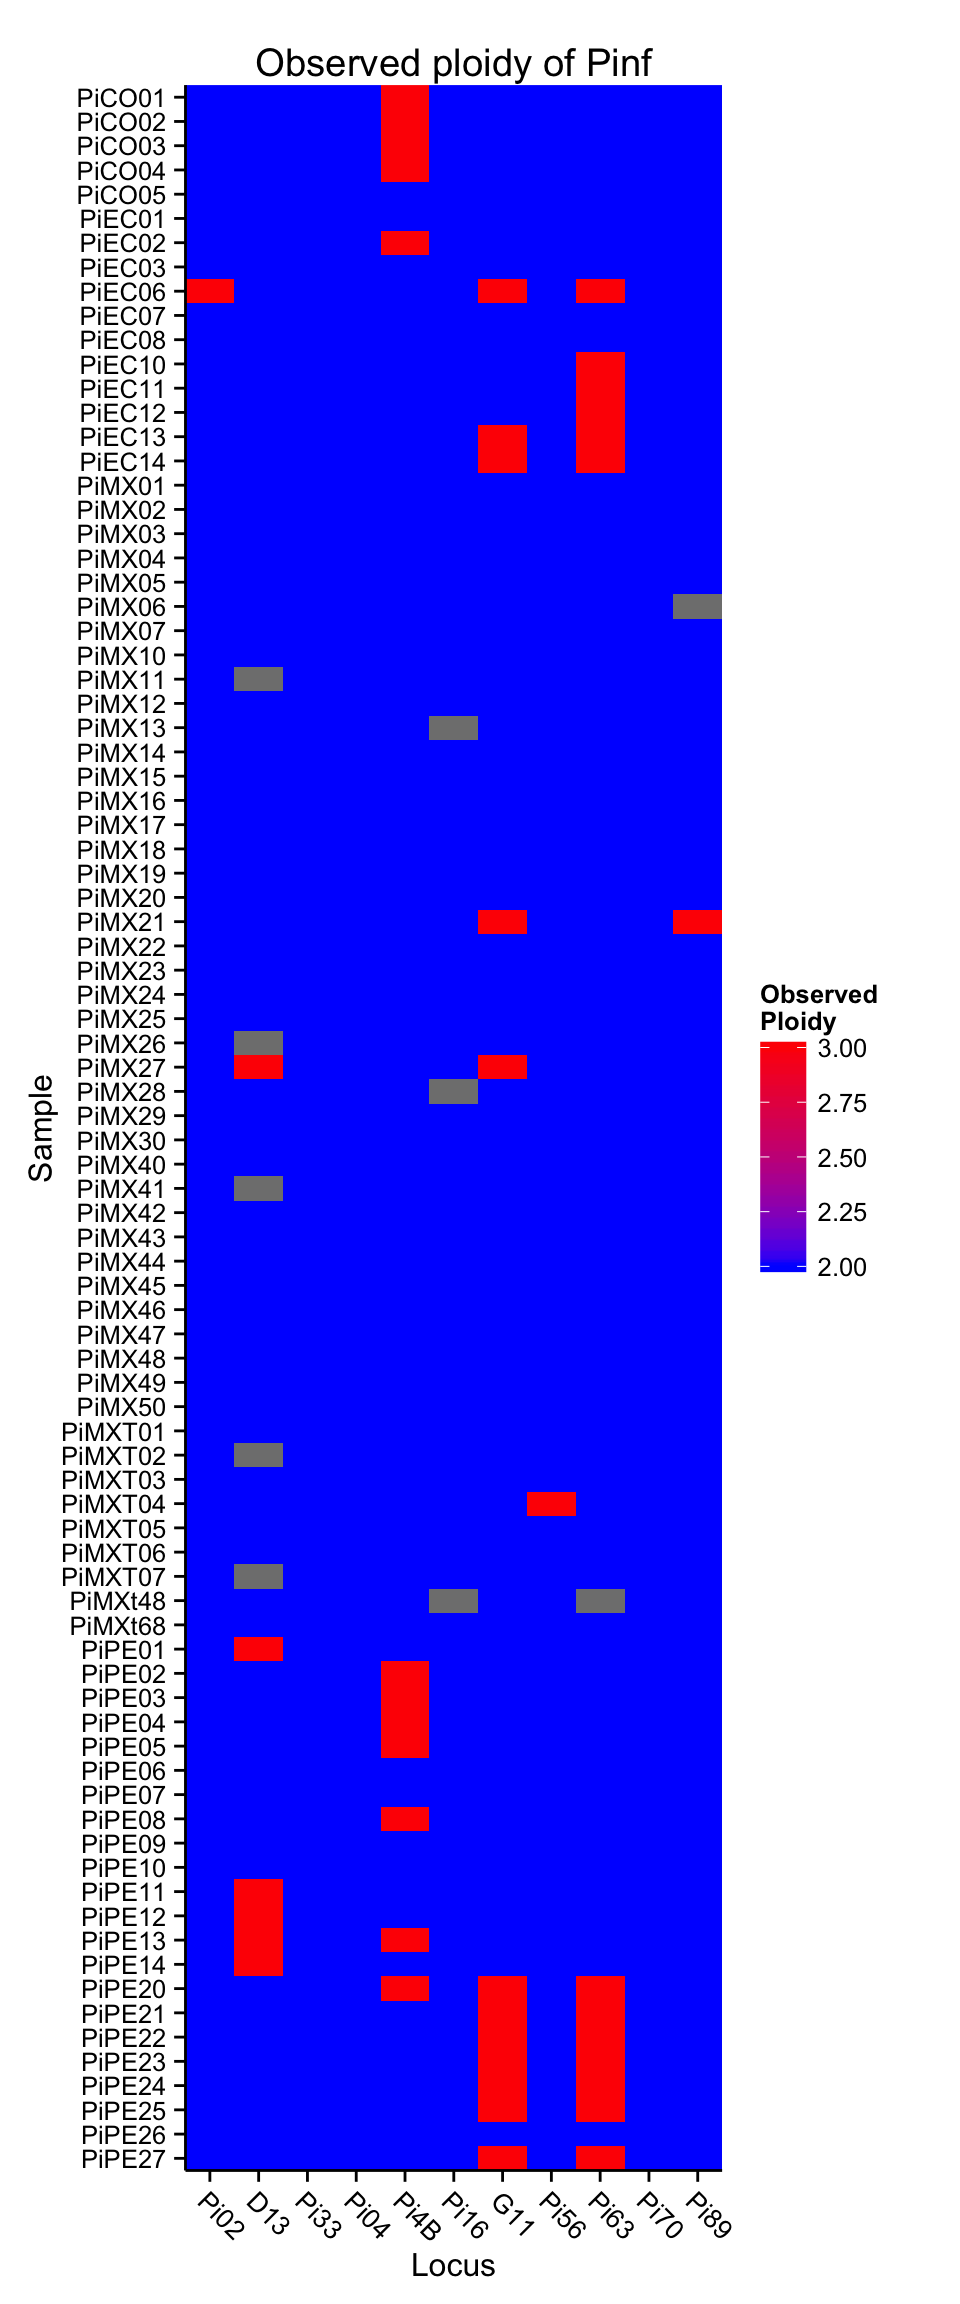
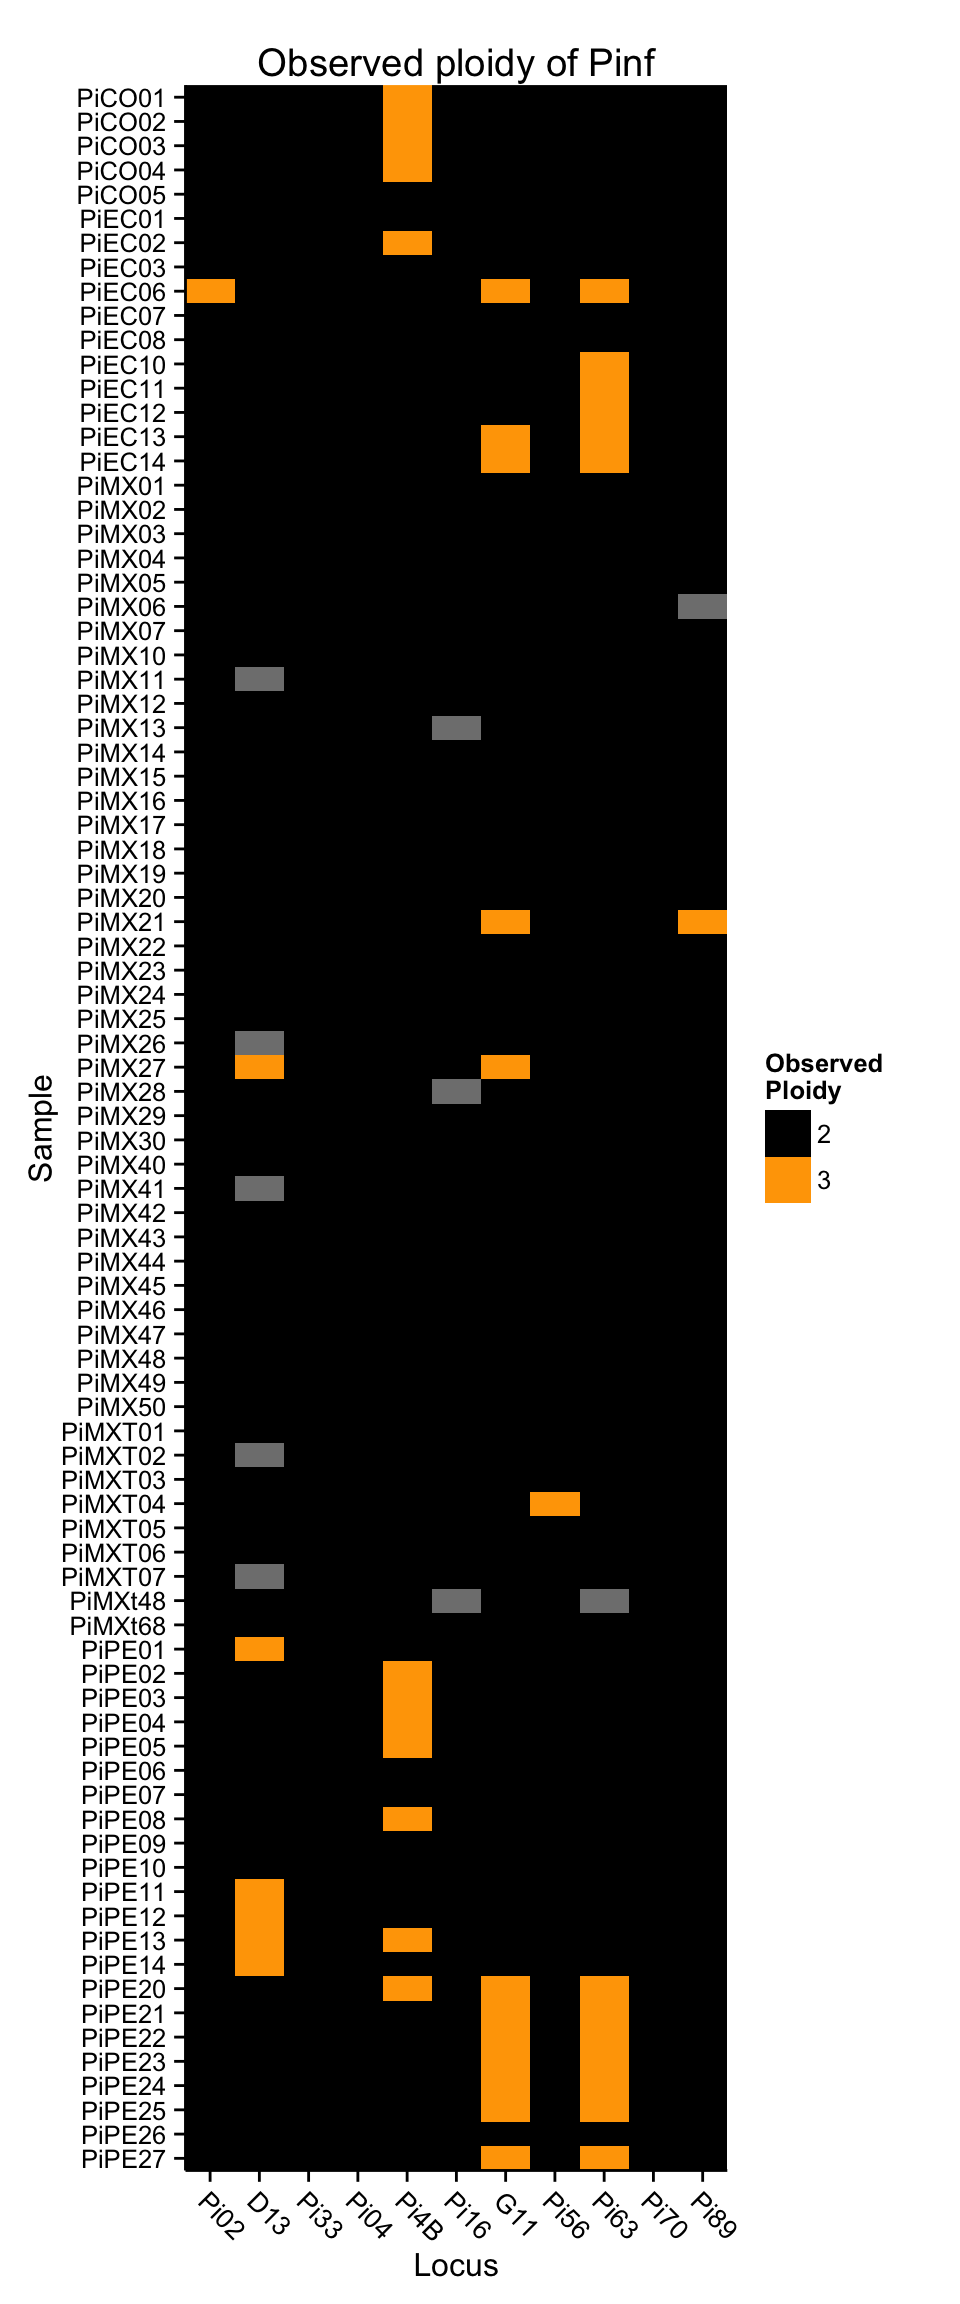
add color change to first steps.

diff --git a/First_Steps.html b/First_Steps.html
@@ -298,7 +298,10 @@ locus_table(Pinf)</code></pre>
 ## PiPE27 000/000/176/176 000/148/151/157 000/000/189/192 000/000/179/179</code></pre>
 <p>The <code>genind2df()</code> function trasnforms the data from genind object into a dataframe and adds ‘/’ as separators between alleles at each locus. Note how missing allelles are coded as ‘000’.</p>
 <p>To observe the different levels of ploidy in your data, use the function <code>info_table</code> with the argument <code>type = &quot;ploidy&quot;</code>:</p>
-<pre class="r"><code>Pinf.ploidy &lt;- info_table(Pinf, type = &quot;ploidy&quot;, plot = TRUE)</code></pre>
+<blockquote>
+<p>Notice you can change the colors of the plot by setting a “low” color and a “high” color.</p>
+</blockquote>
+<pre class="r"><code>Pinf.ploidy &lt;- info_table(Pinf, type = &quot;ploidy&quot;, plot = TRUE, low = &quot;black&quot;, high = &quot;orange&quot;)</code></pre>
 <p><img src="First_Steps_files/figure-html/unnamed-chunk-5-1.png" title="Plot of ploidy" alt="Plot of ploidy" width="480" style="display: block; margin: auto;" /></p>
 <pre class="r"><code>tail(Pinf.ploidy)</code></pre>
 <pre><code>##         Loci

diff --git a/Getting_ready_to_use_R.html b/Getting_ready_to_use_R.html
@@ -278,7 +278,7 @@ in several ways:
 ##  - to post questions/comments: adegenet-forum@lists.r-forge.r-project.org
 ## 
 ## 
-## This is poppr version 1.1.2.99.74. To get started, type package?poppr</code></pre>
+## This is poppr version 1.1.4. To get started, type package?poppr</code></pre>
 <p>This will load <em>poppr</em> and all dependent packages, such as <em>adegenet</em> and <em>ade4</em>. You will recognize loading by the prompts written to your screen.</p>
 <p>Congratulations. You should now be all set for using R. Loading data and conducting your first analysis will be the topic of the next chapter. But before we go there lets provide a few useful resources.</p>
 </div>
